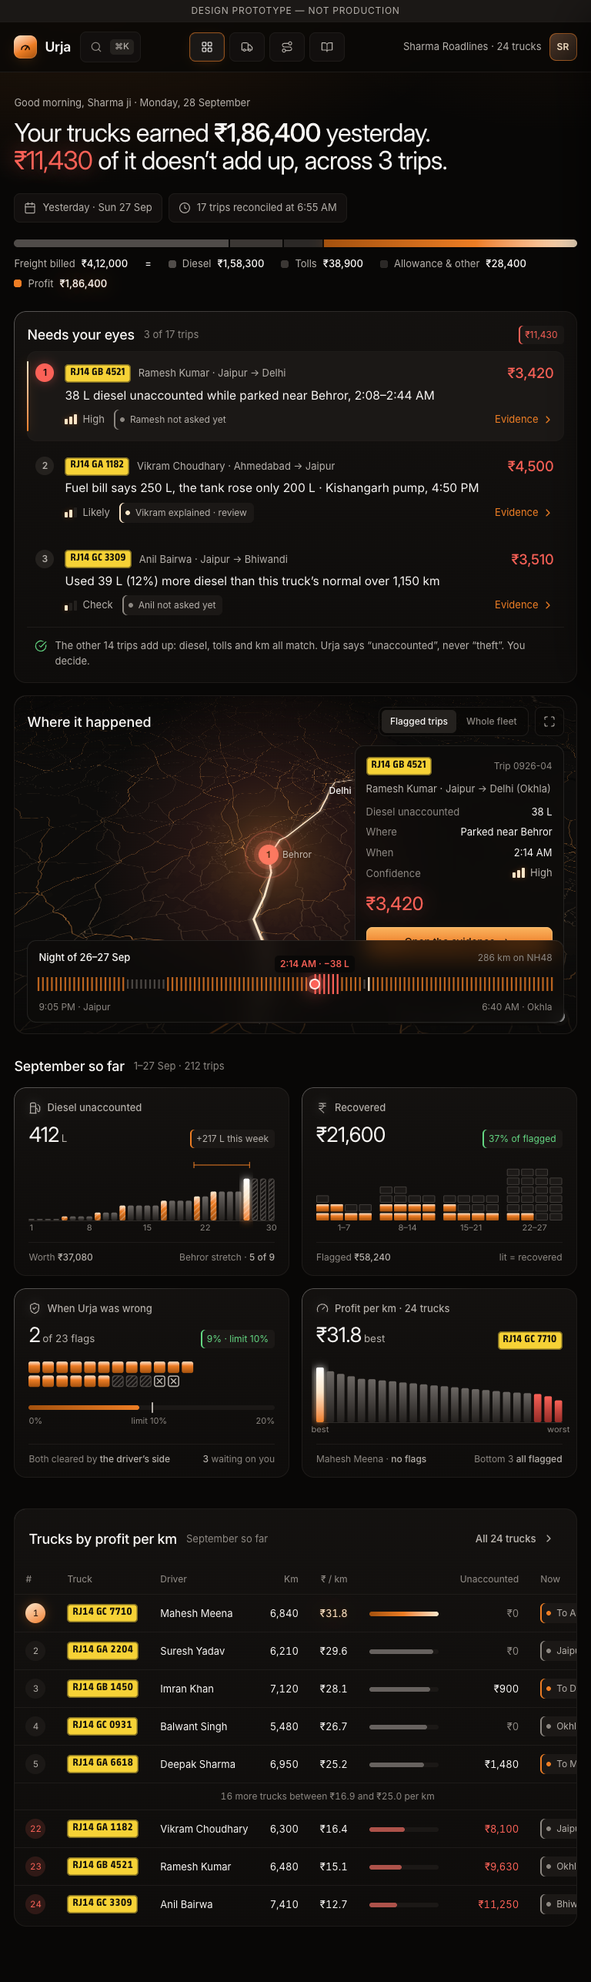
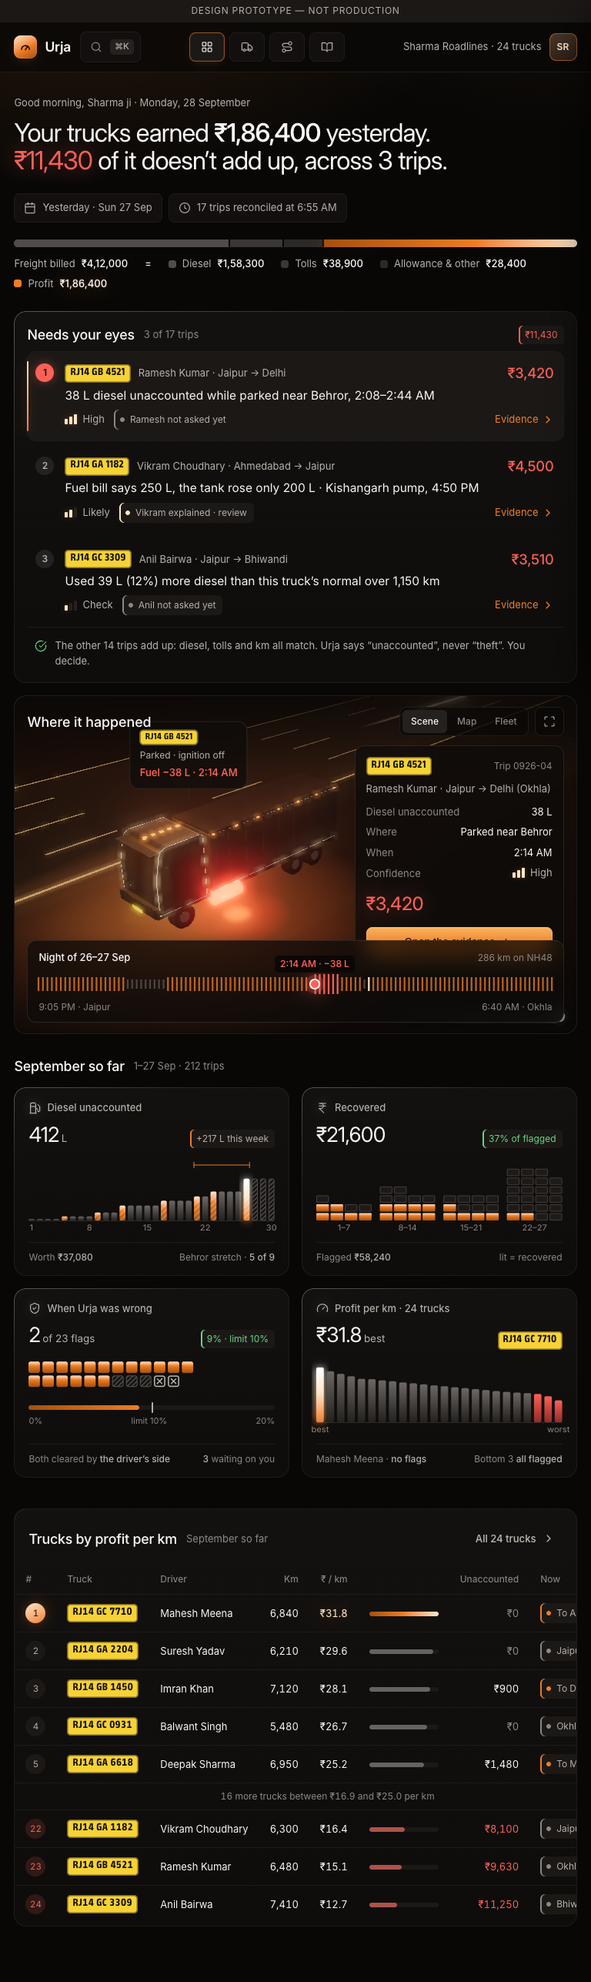
Add TerraFlux-style 3D truck scene to the Today hero (TASK-2)
User asked for a 3D truck delighter like the TerraFlux reference and
explicitly overrode the 3D necessity gate. Procedural three.js truck
(glowing edge strips, marker lamps, light trails on NH48, fuel tank lit
red) reconstructs flag 1, with a Scene | Map | Fleet switch, a poster
fallback, a static camera under reduced motion, and no touch drag.
Also fixes the phone map legend overlap and ignores agent worktrees.

Changed region(s): [[0.0, 0.3419, 0.625, 0.4973], [0.7188, 0.3419, 0.7812, 0.373]]

diff --git a/.design/exploration/option-b/truck3d.js b/.design/exploration/option-b/truck3d.js
@@ -1,0 +1,196 @@
+// DESIGN PROTOTYPE — NOT PRODUCTION. Procedural 3D truck scene (three.js via import map + dynamic import,
+// so it also works from file://). User decision 2026-09-28: include a TerraFlux-style 3D truck as the
+// dashboard delighter (3D necessity gate explicitly overridden). Kept honest: it reconstructs the flagged
+// moment (RJ14 GB 4521 parked off NH48, ignition off, fuel tank lit red), with a poster fallback.
+window.truckScene = async function truckScene(el, opts = {}) {
+  const reduced = matchMedia('(prefers-reduced-motion: reduce)').matches || !!opts.still;
+  const coarse = matchMedia('(pointer: coarse)').matches;
+  let THREE, OrbitControls, EffectComposer, RenderPass, UnrealBloomPass, OutputPass, RoomEnvironment;
+  try {
+    THREE = await import('three');
+    ({ OrbitControls } = await import('three/addons/controls/OrbitControls.js'));
+    ({ EffectComposer } = await import('three/addons/postprocessing/EffectComposer.js'));
+    ({ RenderPass } = await import('three/addons/postprocessing/RenderPass.js'));
+    ({ UnrealBloomPass } = await import('three/addons/postprocessing/UnrealBloomPass.js'));
+    ({ OutputPass } = await import('three/addons/postprocessing/OutputPass.js'));
+    ({ RoomEnvironment } = await import('three/addons/environments/RoomEnvironment.js'));
+  } catch (e) { el.classList.add('fallback'); return null; }
+
+  let renderer;
+  try { renderer = new THREE.WebGLRenderer({ antialias: true, powerPreference: 'high-performance' }); }
+  catch (e) { el.classList.add('fallback'); return null; }
+  const W = () => Math.max(1, el.clientWidth), H = () => Math.max(1, el.clientHeight);
+  renderer.setPixelRatio(Math.min(devicePixelRatio, coarse ? 1.25 : 1.5));
+  renderer.setSize(W(), H());
+  renderer.setClearColor(0x0b0a09, 1);
+  renderer.toneMapping = THREE.ACESFilmicToneMapping;
+  renderer.toneMappingExposure = 1.05;
+  renderer.domElement.setAttribute('aria-hidden', 'true');
+  renderer.domElement.style.touchAction = 'pan-y';
+  el.prepend(renderer.domElement);
+
+  const scene = new THREE.Scene();
+  scene.background = new THREE.Color(0x0b0a09);
+  scene.fog = new THREE.FogExp2(0x0b0a09, 0.0125);
+  const camera = new THREE.PerspectiveCamera(30, W() / H(), 0.1, 700);
+  // soft reflections so the dark metal panels read (like the reference's glossy truck)
+  const pmrem = new THREE.PMREMGenerator(renderer);
+  scene.environment = pmrem.fromScene(new RoomEnvironment(), 0.04).texture;
+  scene.environmentIntensity = 0.22;
+
+  // ---------- textures ----------
+  const tex = (w, h, draw) => { const c = document.createElement('canvas'); c.width = w; c.height = h; draw(c.getContext('2d'), w, h); const t = new THREE.CanvasTexture(c); t.colorSpace = THREE.SRGBColorSpace; t.anisotropy = 4; return t; };
+  const glow = tex(128, 128, (x) => { const g = x.createRadialGradient(64, 64, 0, 64, 64, 64); g.addColorStop(0, 'rgba(255,255,255,1)'); g.addColorStop(.35, 'rgba(255,255,255,.45)'); g.addColorStop(1, 'rgba(255,255,255,0)'); x.fillStyle = g; x.fillRect(0, 0, 128, 128); });
+  const tail = tex(256, 4, (x) => { const g = x.createLinearGradient(0, 0, 256, 0); g.addColorStop(0, 'rgba(255,255,255,0)'); g.addColorStop(.85, 'rgba(255,255,255,.9)'); g.addColorStop(1, 'rgba(255,255,255,1)'); x.fillStyle = g; x.fillRect(0, 0, 256, 4); });
+  const asphalt = tex(256, 256, (x) => { x.fillStyle = '#100e0c'; x.fillRect(0, 0, 256, 256); for (let i = 0; i < 2600; i++) { const v = 14 + Math.random() * 16 | 0; x.fillStyle = `rgb(${v + 4},${v + 2},${v})`; x.fillRect(Math.random() * 256, Math.random() * 256, 1.4, 1.4); } });
+  asphalt.wrapS = asphalt.wrapT = THREE.RepeatWrapping; asphalt.repeat.set(90, 3);
+  if (document.fonts) { try { await document.fonts.ready; } catch (e) {} }
+  const plateTex = tex(512, 128, (x) => {
+    x.fillStyle = '#f2cf38'; x.fillRect(0, 0, 512, 128); x.strokeStyle = '#1b1a14'; x.lineWidth = 8; x.strokeRect(6, 6, 500, 116);
+    x.fillStyle = '#16140f'; x.font = '700 78px "Anek Devanagari", "Arial Narrow", sans-serif'; x.textAlign = 'center'; x.textBaseline = 'middle'; x.fillText('RJ14 GB 4521', 256, 70);
+  });
+
+  // ---------- materials ----------
+  const M = {
+    body: new THREE.MeshStandardMaterial({ color: 0x1d1a17, roughness: .48, metalness: .6 }),
+    cargo: new THREE.MeshStandardMaterial({ color: 0x2b251f, roughness: .82, metalness: .12 }),
+    rib: new THREE.MeshStandardMaterial({ color: 0x3a3229, roughness: .6, metalness: .35 }),
+    tarp: new THREE.MeshStandardMaterial({ color: 0x1a1816, roughness: .95 }),
+    tire: new THREE.MeshStandardMaterial({ color: 0x0a0a0a, roughness: .95 }),
+    hub: new THREE.MeshStandardMaterial({ color: 0x8a7c6c, roughness: .3, metalness: .9 }),
+    glass: new THREE.MeshStandardMaterial({ color: 0x0b0d10, roughness: .06, metalness: .95 }),
+    edge: new THREE.LineBasicMaterial({ color: 0xffe0b3, transparent: true, opacity: .9, toneMapped: false }),
+    amber: new THREE.MeshBasicMaterial({ color: 0xffa04a, toneMapped: false }),
+    red: new THREE.MeshBasicMaterial({ color: 0xff3a2e, toneMapped: false }),
+    off: new THREE.MeshStandardMaterial({ color: 0x2c2a27, roughness: .2, metalness: .8 }),
+    tank: new THREE.MeshStandardMaterial({ color: 0x3a0e0a, emissive: 0xff3b2f, emissiveIntensity: 2.2, roughness: .35, metalness: .6 }),
+    plate: new THREE.MeshBasicMaterial({ map: plateTex, toneMapped: false }),
+  };
+  const box = (w, h, d, mat, x, y, z, parent) => { const m = new THREE.Mesh(new THREE.BoxGeometry(w, h, d), mat); m.position.set(x, y, z); (parent || scene).add(m); return m; };
+  const edges = (mesh, thr = 25) => { const l = new THREE.LineSegments(new THREE.EdgesGeometry(mesh.geometry, thr), M.edge); l.position.copy(mesh.position); l.rotation.copy(mesh.rotation); mesh.parent.add(l); return l; };
+  const disc = (size, color, opacity, x, z) => { const m = new THREE.Mesh(new THREE.PlaneGeometry(size, size), new THREE.MeshBasicMaterial({ map: glow, color, transparent: true, opacity, blending: THREE.AdditiveBlending, depthWrite: false, toneMapped: false })); m.rotation.x = -Math.PI / 2; m.position.set(x, 0.03, z); scene.add(m); return m; };
+
+  // ---------- road: NH48 at night, the truck on the shoulder ----------
+  const ground = new THREE.Mesh(new THREE.PlaneGeometry(900, 500), new THREE.MeshStandardMaterial({ color: 0x080706, roughness: 1 }));
+  ground.rotation.x = -Math.PI / 2; ground.position.y = -0.02; scene.add(ground);
+  const road = new THREE.Mesh(new THREE.PlaneGeometry(900, 14.5), new THREE.MeshStandardMaterial({ map: asphalt, roughness: .92 }));
+  road.rotation.x = -Math.PI / 2; road.position.set(0, 0, -2); scene.add(road);
+  const patch = new THREE.Mesh(new THREE.PlaneGeometry(70, 10), new THREE.MeshStandardMaterial({ color: 0x15120f, roughness: 1 }));
+  patch.rotation.x = -Math.PI / 2; patch.position.set(0, 0.005, 11); scene.add(patch);
+  const markMat = new THREE.MeshBasicMaterial({ color: 0xb08e62, transparent: true, opacity: .7, toneMapped: false });
+  for (const z of [-5.6, -2, 1.6]) for (let x = -300; x < 300; x += 11) box(4.2, .01, .14, markMat, x, .01, z);
+  const lineMat = new THREE.MeshBasicMaterial({ color: 0xc49a66, transparent: true, opacity: .7, toneMapped: false });
+  box(900, .01, .16, lineMat, 0, .012, -9.1); box(900, .01, .16, lineMat, 0, .012, 5.1);
+
+  // ---------- traffic light-trails (the highway keeps moving; the truck doesn't) ----------
+  const trails = [];
+  const lanes = [{ z: 3.3, dir: -1, c: 0xffe6c2 }, { z: -.2, dir: -1, c: 0xffe6c2 }, { z: -3.8, dir: 1, c: 0xff4636 }, { z: -7.3, dir: 1, c: 0xff4636 }];
+  lanes.forEach((ln) => { for (let k = 0; k < 5; k++) {
+    const L = 10 + Math.random() * 16;
+    const m = new THREE.Mesh(new THREE.PlaneGeometry(L, .46), new THREE.MeshBasicMaterial({ map: tail, color: ln.c, transparent: true, opacity: .95, blending: THREE.AdditiveBlending, depthWrite: false, toneMapped: false }));
+    m.rotation.x = -Math.PI / 2; if (ln.dir > 0) m.rotation.z = Math.PI;
+    m.position.set(-220 + Math.random() * 440, .75, ln.z + (Math.random() - .5) * .6);
+    scene.add(m); trails.push({ m, v: (20 + Math.random() * 12) * ln.dir });
+  } });
+
+  // ---------- the truck (Indian heavy truck, closed cargo body) ----------
+  const T = new THREE.Group(); T.position.set(0, 0, 11); T.rotation.y = Math.PI; scene.add(T);
+  box(10.8, .32, 2.2, M.body, 0, .95, 0, T);                                        // chassis
+  const s = new THREE.Shape();                                                      // cab profile (side view)
+  s.moveTo(0, 0); s.lineTo(2.3, 0); s.lineTo(2.3, 1.5); s.lineTo(2.08, 2.52); s.quadraticCurveTo(2.0, 2.78, 1.72, 2.8); s.lineTo(.16, 2.8); s.quadraticCurveTo(0, 2.8, 0, 2.62); s.lineTo(0, 0);
+  const cabG = new THREE.ExtrudeGeometry(s, { depth: 2.44, bevelEnabled: true, bevelThickness: .05, bevelSize: .05, bevelSegments: 2, curveSegments: 8 });
+  cabG.translate(0, 0, -1.22);
+  const cab = new THREE.Mesh(cabG, M.body); cab.position.set(3.05, 1.08, 0); T.add(cab); edges(cab, 30);
+  const ws = box(.05, .95, 2.12, M.glass, 3.05 + 2.21, 1.08 + 2.0, 0, T); ws.rotation.z = .215;   // windscreen
+  for (const z of [1.25, -1.25]) box(1.2, .78, .03, M.glass, 3.05 + 1.25, 1.08 + 2.1, z, T);       // side windows
+  box(.3, .42, 2.52, M.body, 5.47, 1.2, 0, T);                                                    // bumper
+  box(.46, .08, 2.5, M.body, 5.3, 1.08 + 2.62, 0, T);                                             // sun visor
+  const grille = box(.04, .7, 1.4, M.glass, 5.37, 1.08 + .95, 0, T); edges(grille, 1);             // grille
+  for (const z of [1.42, -1.42]) { box(.06, .06, .34, M.body, 4.9, 1.08 + 2.0, z > 0 ? z - .1 : z + .1, T); box(.12, .52, .2, M.glass, 4.9, 1.08 + 2.0, z + (z > 0 ? .12 : -.12), T); } // mirrors
+  for (const z of [.86, -.86]) box(.06, .16, .42, M.off, 5.63, 1.36, z, T);                        // headlights (ignition off)
+  for (let i = 0; i < 5; i++) box(.16, .1, .12, M.amber, 3.3 + i * .4, 1.08 + 2.86, 0, T);          // roof marker lamps
+  const plF = new THREE.Mesh(new THREE.PlaneGeometry(.72, .18), M.plate); plF.position.set(5.63, .98, 0); plF.rotation.y = Math.PI / 2; T.add(plF);
+  const plR = new THREE.Mesh(new THREE.PlaneGeometry(.72, .18), M.plate); plR.position.set(-5.43, 1.02, 0); plR.rotation.y = -Math.PI / 2; T.add(plR);
+  const cargo = box(7.9, 2.6, 2.52, M.cargo, -1.35, 1.11 + 1.3, 0, T); edges(cargo, 20);            // cargo body
+  for (let i = 0; i <= 8; i++) box(.09, 2.62, 2.58, M.rib, -5.25 + i * .985, 1.11 + 1.3, 0, T);    // ribs
+  box(7.95, .12, 2.56, M.tarp, -1.35, 1.11 + 2.66, 0, T);                                         // tarp
+  for (let i = 0; i < 7; i++) for (const z of [1.3, -1.3]) box(.12, .08, .06, M.amber, -5.0 + i * 1.25, 1.11 + 2.62, z, T); // body marker lamps
+  for (const z of [.95, -.95]) box(.05, .16, .34, M.red, -5.33, 1.3, z, T);                        // tail lamps
+  const wG = new THREE.CylinderGeometry(.53, .53, .44, 28); wG.rotateX(Math.PI / 2);
+  const hG = new THREE.CylinderGeometry(.25, .25, .46, 20); hG.rotateX(Math.PI / 2);
+  for (const x of [4.25, -2.35, -3.72]) for (const z of [1.07, -1.07]) {
+    const w = new THREE.Mesh(wG, M.tire); w.position.set(x, .53, z); T.add(w);
+    const h = new THREE.Mesh(hG, M.hub); h.position.set(x, .53, z); T.add(h);
+  }
+  // the evidence: the fuel tank, lit red
+  const tG = new THREE.CylinderGeometry(.34, .34, 1.5, 28); tG.rotateZ(Math.PI / 2);
+  const tank = new THREE.Mesh(tG, M.tank); tank.position.set(1.95, .74, -1.2); T.add(tank);
+  const tankLight = new THREE.PointLight(0xff3b2f, 9, 7, 2); tankLight.position.set(1.95, .6, -2.1); T.add(tankLight);
+  const pool = disc(4.6, 0xff3b2f, .55, -1.95, 13.1);
+
+  // ---------- the lamp: a dhaba pole light, the only warm light on the scene ----------
+  box(.14, 7.6, .14, M.body, -9.5, 3.8, 7.2);                                   // pole behind the truck, road side
+  box(.09, .09, 1.9, M.body, -9.5, 7.55, 8.1);
+  box(.32, .12, .62, new THREE.MeshBasicMaterial({ color: 0xffd08a, toneMapped: false }), -9.5, 7.48, 8.95);
+  const spot = new THREE.SpotLight(0xffb468, 360, 42, .8, .85, 2); spot.position.set(-9.5, 7.3, 8.95); spot.target.position.set(-2.5, 0, 11.4); scene.add(spot, spot.target);
+  disc(18, 0xff9442, .30, -3.5, 11.8);
+  scene.add(new THREE.HemisphereLight(0x3a2d22, 0x060505, .9));
+  const rim = new THREE.DirectionalLight(0xffb070, 1.7); rim.position.set(30, 20, -26); scene.add(rim);
+  const fill = new THREE.DirectionalLight(0xd8c6b2, .35); fill.position.set(-14, 9, 30); scene.add(fill);
+
+  // ---------- camera: high three-quarter view, like the reference ----------
+  // framing: the truck sits left of the glass card, clear of the rail; phones pull back (no card there)
+  const narrow = W() / H() < 1.15;
+  const target = new THREE.Vector3(...(opts.target || (narrow ? [1.2, -1.4, 10.8] : [4.3, -.9, 10.4])));
+  const CAM = opts.cam || (narrow ? [-19, 17, 38] : [-17, 14.5, 31]);
+  camera.position.set(...CAM);
+  camera.lookAt(target);
+  const controls = new OrbitControls(camera, renderer.domElement);
+  controls.target.copy(target); controls.enableZoom = false; controls.enablePan = false; controls.enableDamping = true; controls.dampingFactor = .08;
+  controls.minPolarAngle = .72; controls.maxPolarAngle = 1.18;
+  const base = new THREE.Spherical().setFromVector3(camera.position.clone().sub(target));
+  controls.minAzimuthAngle = base.theta - .75; controls.maxAzimuthAngle = base.theta + .75;
+  controls.enabled = !coarse;                     // touch: the page owns the gesture
+  let userAt = -1e9; controls.addEventListener('start', () => { userAt = performance.now(); });
+  controls.update();
+
+  // ---------- post: bloom gives the edge-light strips their glow ----------
+  const composer = new EffectComposer(renderer);
+  composer.addPass(new RenderPass(scene, camera));
+  const bloom = new UnrealBloomPass(new THREE.Vector2(W(), H()), .72, .5, .16);
+  composer.addPass(bloom);
+  composer.addPass(new OutputPass());
+
+  // ---------- tag anchored to the truck (DOM, so it stays text) ----------
+  const tag = el.querySelector('.scene-tag');
+  const anchor = new THREE.Vector3(-2.6, 5.4, 11);
+  const placeTag = () => { if (!tag) return; const v = anchor.clone().project(camera); tag.style.transform = `translate(${((v.x + 1) / 2) * W()}px, ${((1 - v.y) / 2) * H()}px) translate(-50%, -100%)`; };
+
+  // ---------- loop (render only while visible) ----------
+  const clock = new THREE.Clock(); let running = false, visible = true, raf = 0, t = 0;
+  const sph = new THREE.Spherical();
+  function frame() {
+    raf = 0; if (!running || !visible) return;
+    const dt = Math.min(clock.getDelta(), .05); t += dt;
+    if (!reduced) {
+      trails.forEach((tr) => { tr.m.position.x += tr.v * dt; if (tr.m.position.x > 230) tr.m.position.x = -230; if (tr.m.position.x < -230) tr.m.position.x = 230; });
+      M.tank.emissiveIntensity = 1.7 + .9 * (0.5 + 0.5 * Math.sin(t * 2.3)); tankLight.intensity = 6 + 5 * (0.5 + 0.5 * Math.sin(t * 2.3)); pool.material.opacity = .4 + .22 * Math.sin(t * 2.3);
+      if (performance.now() - userAt > 6000) { sph.setFromVector3(camera.position.clone().sub(controls.target)); sph.theta += (base.theta + .1 * Math.sin(t * .22) - sph.theta) * .02; camera.position.copy(controls.target).add(new THREE.Vector3().setFromSpherical(sph)); }
+    }
+    controls.update(); composer.render(); placeTag();
+    raf = requestAnimationFrame(frame);
+  }
+  const api = {
+    start() { if (opts.still) { api.renderOnce(); return; } running = true; clock.getDelta(); if (!raf) raf = requestAnimationFrame(frame); },
+    stop() { running = false; if (raf) cancelAnimationFrame(raf); raf = 0; },
+    reset() { camera.position.set(...CAM); controls.target.copy(target); userAt = -1e9; controls.update(); },
+    renderOnce() { controls.update(); composer.render(); placeTag(); },
+  };
+  new ResizeObserver(() => { renderer.setSize(W(), H()); composer.setSize(W(), H()); camera.aspect = W() / H(); camera.updateProjectionMatrix(); api.renderOnce(); }).observe(el);
+  new IntersectionObserver((es) => { visible = es[0].isIntersecting; if (visible && running && !raf) raf = requestAnimationFrame(frame); }).observe(el);
+  document.addEventListener('visibilitychange', () => { visible = !document.hidden; if (visible && running && !raf) raf = requestAnimationFrame(frame); });
+  el.classList.add('ready');
+  api.renderOnce();
+  if (opts.autostart !== false) api.start();
+  return api;
+};

diff --git a/.design/exploration/option-b/index.html b/.design/exploration/option-b/index.html
@@ -7,6 +7,7 @@
 <link rel="stylesheet" href="lamp.css">
 <link rel="stylesheet" href="https://cdn.jsdelivr.net/npm/maplibre-gl@4.7.1/dist/maplibre-gl.css">
 <script src="https://cdn.jsdelivr.net/npm/maplibre-gl@4.7.1/dist/maplibre-gl.js"></script>
+<script type="importmap">{"imports":{"three":"https://cdn.jsdelivr.net/npm/three@0.169.0/build/three.module.js","three/addons/":"https://cdn.jsdelivr.net/npm/three@0.169.0/examples/jsm/"}}</script>
 </head>
 <body>
 <div class="proto-banner">DESIGN PROTOTYPE — NOT PRODUCTION</div>
@@ -53,13 +54,16 @@
 
   <section class="hero-row">
     <!-- where it happened: the flagged trips on a real, tilted night map -->
-    <article class="panel mapcard" id="mapcard" aria-labelledby="map-h">
+    <article class="panel mapcard is-scene" id="mapcard" aria-labelledby="map-h">
+      <div class="scene" id="scene" role="img" aria-label="3D scene of truck RJ14 GB 4521 parked 1.6 km off NH48 near Behror at 2:14 AM with its ignition off. The fuel tank is lit red because 38 litres went unaccounted.">
+        <div class="scene-tag glass" aria-hidden="true"><span class="plate">RJ14 GB 4521</span><span>Parked · ignition off</span><b class="loss">Fuel −38 L · 2:14 AM</b></div>
+      </div>
       <div class="map" id="heroMap" role="img" aria-label="Map of the three flagged trips. Selected: RJ14 GB 4521, Jaipur to Delhi, parked near Behror when 38 litres of diesel went unaccounted."></div>
       <div class="fade"></div>
       <div class="mc-top">
         <h2 id="map-h">Where it happened</h2>
         <div class="right">
-          <div class="seg" role="group" aria-label="Map shows"><button data-mode="flags" aria-pressed="true">Flagged trips</button><button data-mode="fleet" aria-pressed="false">Whole fleet</button></div>
+          <div class="seg" role="group" aria-label="View"><button data-mode="scene" aria-pressed="true">Scene</button><button data-mode="flags" aria-pressed="false">Map</button><button data-mode="fleet" aria-pressed="false">Fleet</button></div>
           <button class="iconbtn" id="fs" aria-label="Full screen map"><svg class="i"><use href="#i-expand"/></svg></button>
         </div>
       </div>
@@ -179,6 +183,7 @@
 <script src="icons.js"></script>
 <script src="charts.js"></script>
 <script src="map.js"></script>
+<script src="truck3d.js"></script>
 <script>
   const conf = (l, w) => `<span class="conf" data-level="${l}"><i><b></b><b></b><b></b></i>${w}</span>`;
   const FL = [
@@ -218,12 +223,27 @@
   heroMap('heroMap', (api) => {
     ready = api;
     api.onselect = showFlag;
-    api.onmode = (m) => { document.querySelectorAll('.seg button').forEach((b) => b.setAttribute('aria-pressed', b.dataset.mode === m)); if (m === 'fleet') showFleet(); };
-    if (location.search.includes('fleet')) api.setMode('fleet');
+    api.onmode = (m) => { if (m === 'fleet') showFleet(); };
+    if (location.search.includes('fleet')) setView('fleet');
     const s = new URLSearchParams(location.search).get('flag'); if (s) api.select(+s - 1);
   });
-  document.querySelectorAll('.eye').forEach((row, i) => row.querySelector('.eye-sel').onclick = () => ready ? ready.select(i) : showFlag(i));
-  document.querySelectorAll('.seg button').forEach((b) => b.onclick = () => { if (!ready) return; b.dataset.mode === 'fleet' ? ready.setMode('fleet') : ready.select(ready.sel); });
+  // hero view: the 3D scene (flag 1's moment), the map, or the whole fleet
+  const card = document.getElementById('mapcard');
+  let scene3d = null, view = 'scene';
+  function setView(v) {
+    view = v; card.classList.toggle('is-scene', v === 'scene');
+    document.querySelectorAll('.seg button').forEach((b) => b.setAttribute('aria-pressed', b.dataset.mode === v));
+    if (v === 'scene') { scene3d && scene3d.start(); showFlag(0); } else scene3d && scene3d.stop();
+    if (v === 'flags' && ready) ready.select(ready.sel);
+    if (v === 'fleet' && ready) ready.setMode('fleet');
+  }
+  truckScene(document.getElementById('scene'), { still: location.search.includes('still') }).then((api) => { scene3d = api; if (view !== 'scene' && api) api.stop(); });
+  document.querySelectorAll('.eye').forEach((row, i) => row.querySelector('.eye-sel').onclick = () => {
+    if (i > 0 && view === 'scene') setView('flags');           // the scene reconstructs flag 1; others show on the map
+    ready ? ready.select(i) : showFlag(i);
+  });
+  document.querySelectorAll('.seg button').forEach((b) => b.onclick = () => setView(b.dataset.mode));
+  if (location.search.includes('map')) setView('flags');
   document.getElementById('fs').onclick = () => { const m = document.getElementById('mapcard'); document.fullscreenElement ? document.exitFullscreen() : m.requestFullscreen && m.requestFullscreen(); };
 
   // September charts

diff --git a/.design/exploration/index.html b/.design/exploration/index.html
@@ -50,8 +50,8 @@
         <div class="shots"><figure><a href="option-b/trip.html"><img src="shots/b-trip-1440.png" alt="Trip desktop"></a><figcaption>Desktop · 1440</figcaption></figure><figure><a href="option-b/trip.html"><img src="shots/b-trip-375.png" alt="Trip phone"></a><figcaption>Phone · 375</figcaption></figure></div>
       </div></section>
       <section class="step"><span class="n">4</span><div>
-        <h3>Today (desktop)</h3><p>The verdict, the ledger as one bar, the map and “Needs your eyes” linked (click a flag and the map flies to it), September as four chart cards including “When Urja was wrong”, and trucks by profit per km.</p>
-        <div class="shots"><figure><a href="option-b/index.html"><img src="shots/b-index-1440.png" alt="Today desktop"></a><figcaption>Desktop · 1440</figcaption></figure><figure><a href="option-b/index.html"><img src="shots/b-index-768.png" alt="Today tablet"></a><figcaption>Tablet · 768</figcaption></figure><figure><a href="option-b/index.html"><img src="shots/b-index-375.png" alt="Today phone"></a><figcaption>Phone · 375</figcaption></figure><figure><a href="option-b/index.html?fleet"><img src="shots/b-index-fleet-1440.png" alt="Whole fleet map"></a><figcaption>Map · whole fleet</figcaption></figure></div>
+        <h3>Today (the dashboard)</h3><p>The verdict, the ledger as one bar, and the hero card: a live <b>3D truck scene</b> (TerraFlux-style: glowing edge strips, marker lamps, light trails on NH48) reconstructing the flagged moment, with the fuel tank lit red. Switch it to <b>Map</b> (the flags on a tilted night map, linked to “Needs your eyes”) or <b>Fleet</b>. Then September as four chart cards including “When Urja was wrong”, and trucks by profit per km. Drag the truck to look around it.</p>
+        <div class="shots"><figure><a href="option-b/index.html"><img src="shots/b-index-scene-1440.png" alt="Today with the 3D truck"></a><figcaption>3D truck · first screen</figcaption></figure><figure><a href="option-b/scene.html"><img src="option-b/assets/truck-scene.png" alt="3D truck scene"></a><figcaption>The scene, full-bleed</figcaption></figure><figure><a href="option-b/index.html"><img src="shots/b-index-1440.png" alt="Today desktop"></a><figcaption>Desktop · 1440</figcaption></figure><figure><a href="option-b/index.html"><img src="shots/b-index-768.png" alt="Today tablet"></a><figcaption>Tablet · 768</figcaption></figure><figure><a href="option-b/index.html"><img src="shots/b-index-375.png" alt="Today phone"></a><figcaption>Phone · 375</figcaption></figure><figure><a href="option-b/index.html?map"><img src="shots/b-index-map-1440.png" alt="Map view"></a><figcaption>Map view</figcaption></figure><figure><a href="option-b/index.html?fleet"><img src="shots/b-index-fleet-1440.png" alt="Whole fleet map"></a><figcaption>Fleet view</figcaption></figure></div>
       </div></section>
       <section class="step"><span class="n">5</span><div>
         <h3>Ask Urja</h3><p>Answers in the question’s language, cites the trips it used, states scope and model, and says it can be wrong.</p>

diff --git a/.design/exploration/option-b/lamp.css b/.design/exploration/option-b/lamp.css
@@ -512,3 +512,16 @@ body.ask-open .drawer { transform: none; }
   .railbox { padding-bottom: 12px; }
   .rail-ends { margin-top: 22px; }
 }
+
+/* ---------- 3D scene in the hero card (user-requested delighter; poster fallback) ---------- */
+.scene { position: absolute; inset: 0; border-radius: inherit; overflow: hidden; display: none; background: #0b0a09; }
+.mapcard.is-scene .scene { display: block; }
+.mapcard.is-scene .map, .mapcard.is-scene .pool { visibility: hidden; }
+.scene canvas { display: block; width: 100% !important; height: 100% !important; }
+.scene.fallback { background: #0b0a09 url(assets/truck-scene.png) center / cover no-repeat; }
+.scene-tag { position: absolute; left: 0; top: 0; display: flex; flex-direction: column; gap: 4px; padding: 10px 12px; font-size: var(--t-xs); color: var(--fg-muted); white-space: nowrap; pointer-events: none; z-index: 2; }
+.scene-tag::after { content: ""; position: absolute; left: 50%; bottom: -26px; width: 1px; height: 26px; background: linear-gradient(var(--line), transparent); }
+.scene-tag .plate { align-self: flex-start; height: 20px; font-size: .78rem; }
+.scene-tag b { font-weight: 560; font-size: var(--t-sm); }
+@media (max-width: 760px) { .scene-tag { display: none; } }
+@media (max-width: 760px) { .maplegend { top: 54px; bottom: auto; } }

diff --git a/.design/exploration/option-b/scene.html b/.design/exploration/option-b/scene.html
@@ -1,0 +1,21 @@
+<!doctype html>
+<html lang="en">
+<head>
+<meta charset="utf-8">
+<meta name="viewport" content="width=device-width, initial-scale=1">
+<title>Truck scene · Urja</title>
+<link rel="stylesheet" href="lamp.css">
+<script type="importmap">{"imports":{"three":"https://cdn.jsdelivr.net/npm/three@0.169.0/build/three.module.js","three/addons/":"https://cdn.jsdelivr.net/npm/three@0.169.0/examples/jsm/"}}</script>
+<style>
+  html, body { height: 100%; }
+  body::before { display: none; }
+  .scene { display: block; position: fixed; inset: 0; border-radius: 0; }
+</style>
+</head>
+<body>
+<!-- Full-bleed scene: used to capture the poster (fallback + Why Urja + link preview). No UI chrome. -->
+<div class="scene" id="scene" role="img" aria-label="3D scene of truck RJ14 GB 4521 parked off NH48 near Behror at night, its fuel tank lit red."></div>
+<script src="truck3d.js"></script>
+<script>truckScene(document.getElementById('scene'), { target: [.4, 0.4, 10.6], cam: [-14.5, 9.8, 25.5], still: location.search.includes('still') });</script>
+</body>
+</html>
